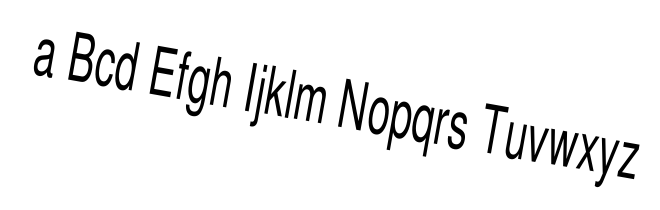
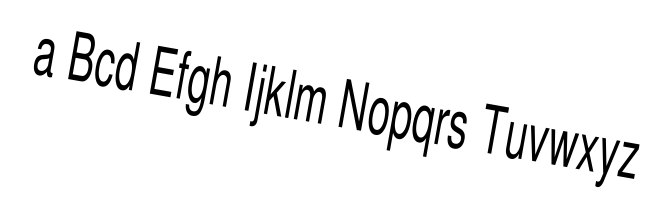
Bug 2063377 - Restore quarter-pixel glyph positioning for rotated and skewed text r=gfx-reviewers,aosmond
Bug 2005426 removed SubpixelDirection::Mixed, so rotated and skewed runs fell
through to None and each glyph rounded its pen to a whole device pixel
independently. Under a transform that changes slightly each frame, the letters
of a word pop a pixel at a time.

Reinstate Mixed: both axes carry a quarter-pixel offset. The 16 variants pack
into one atlas entry selected in the shader, so a glyph costs one texture cache
entry at 16 times the width rather than 16 entries.

The new reftest asserts that two rotated runs a quarter of a pixel apart render
differently, which whole-pixel rounding cannot satisfy. References regenerated.
Three fuzz counts go up slightly: the new sub-pixel positions leave a few more
pixels sitting on an anti-aliasing boundary, each differing by at most one level.

Differential Revision: https://phabricator.services.mozilla.com/D319300

diff --git a/gfx/wr/wr_glyph_rasterizer/src/rasterizer.rs b/gfx/wr/wr_glyph_rasterizer/src/rasterizer.rs
@@ -380,8 +380,9 @@ impl FontTransform {
             // The X axis has been swapped with the Y axis
             SubpixelDirection::Vertical
         } else {
-            // Mixed transforms get no subpixel positioning
-            SubpixelDirection::None
+            // Both axes are projected onto each other (rotation / skew), so no
+            // single axis can carry the sub-pixel offset.
+            SubpixelDirection::Mixed
         }
     }
 }
@@ -1032,6 +1033,11 @@ pub enum SubpixelDirection {
     None = 0,
     Horizontal,
     Vertical,
+    /// A rotated or skewed transform, where neither axis alone can carry the
+    /// sub-pixel offset. Both axes get quarter-pixel positioning, so the run
+    /// snaps to a quarter-pixel grid rather than popping a whole device pixel at
+    /// a time (bug 2063377). Costs 16 raster variants per glyph.
+    Mixed,
 }
 
 impl SubpixelDirection {
@@ -1046,7 +1052,7 @@ impl SubpixelDirection {
 
     pub fn swap_xy(self) -> Self {
         match self {
-            SubpixelDirection::None => self,
+            SubpixelDirection::None | SubpixelDirection::Mixed => self,
             SubpixelDirection::Horizontal => SubpixelDirection::Vertical,
             SubpixelDirection::Vertical => SubpixelDirection::Horizontal,
         }
@@ -1129,6 +1135,7 @@ impl GlyphKey {
             SubpixelDirection::None => (0.0, 0.0),
             SubpixelDirection::Horizontal => (point.x, 0.0),
             SubpixelDirection::Vertical => (0.0, point.y),
+            SubpixelDirection::Mixed => (point.x, point.y),
         };
         let sox = SubpixelOffset::quantize(dx);
         let soy = SubpixelOffset::quantize(dy);
@@ -1721,7 +1728,8 @@ pub type GlyphRasterResult = Result<RasterizedGlyph, GlyphRasterError>;
 pub struct GpuGlyphCacheKey(pub u32);
 
 fn pack_glyph_variants_horizontal(variants: &[RasterizedGlyph]) -> RasterizedGlyph {
-    // Pack 4 glyph variants horizontally into a single texture.
+    // Pack the glyph variants horizontally into a single texture (4 for a single
+    // sub-pixel axis, 16 for a mixed transform's 4x4 grid).
     // Normalize both left and top offsets via padding so all variants can use the same base offsets.
 
     let min_left = variants.iter().map(|v| v.left.floor()).fold(f32::INFINITY, f32::min);
@@ -1737,7 +1745,7 @@ fn pack_glyph_variants_horizontal(variants: &[RasterizedGlyph]) -> RasterizedGly
         .map(|v| v.height + (max_top - v.top.floor()) as i32)
         .max().unwrap();
 
-    let packed_width = slot_width * 4;
+    let packed_width = slot_width * variants.len() as i32;
     let bpp = 4;
 
     let mut packed_bytes = vec![0u8; (packed_width * slot_height * bpp) as usize];
@@ -1803,17 +1811,24 @@ fn process_glyph(
             SubpixelOffset::ThreeQuarters,
         ];
 
-        let mut variants = Vec::with_capacity(4);
-        for offset in &offsets {
-            let variant_key = GlyphKey::new(
-                key.index(),
-                match subpx_dir {
-                    SubpixelDirection::Horizontal => DevicePoint::new(offset.to_f32(), 0.0),
-                    SubpixelDirection::Vertical => DevicePoint::new(0.0, offset.to_f32()),
-                    SubpixelDirection::None => DevicePoint::zero(),
-                },
-                subpx_dir,
-            );
+        // A mixed transform varies on both axes, so it needs the full 4x4 grid
+        // of offsets. The shader indexes it as `offset_y * 4 + offset_x`.
+        let points: Vec<DevicePoint> = match subpx_dir {
+            SubpixelDirection::Horizontal =>
+                offsets.iter().map(|o| DevicePoint::new(o.to_f32(), 0.0)).collect(),
+            SubpixelDirection::Vertical =>
+                offsets.iter().map(|o| DevicePoint::new(0.0, o.to_f32())).collect(),
+            SubpixelDirection::Mixed => offsets.iter()
+                .flat_map(|oy| offsets.iter().map(move |ox| {
+                    DevicePoint::new(ox.to_f32(), oy.to_f32())
+                }))
+                .collect(),
+            SubpixelDirection::None => vec![DevicePoint::zero()],
+        };
+
+        let mut variants = Vec::with_capacity(points.len());
+        for point in points {
+            let variant_key = GlyphKey::new(key.index(), point, subpx_dir);
 
             match context.rasterize_glyph(&font, &variant_key) {
                 Ok(glyph) => variants.push(glyph),

diff --git a/gfx/wr/webrender/src/prim_store/text_run.rs b/gfx/wr/webrender/src/prim_store/text_run.rs
@@ -503,10 +503,15 @@ impl TextRunTemplate {
         let local_raster = raster_space != RasterSpace::Screen
             || used_font.flags.contains(FontInstanceFlags::TEXTURE_PADDING);
 
+        // Only the local-raster branch below snaps on the CPU; device mode hands
+        // the exact pen to the shader, which applies the matching bias itself.
+        // `Mixed` never reaches local-raster mode (that path rasterizes with an
+        // identity `FontTransform`, so its subpx dir is always `Horizontal`).
         let snap_bias = match subpx_dir {
             SubpixelDirection::None => DeviceVector2D::new(0.5, 0.5),
             SubpixelDirection::Horizontal => DeviceVector2D::new(0.125, 0.5),
             SubpixelDirection::Vertical => DeviceVector2D::new(0.5, 0.125),
+            SubpixelDirection::Mixed => DeviceVector2D::new(0.125, 0.125),
         };
 
         // World-space run anchor (device mode only).

diff --git a/gfx/wr/webrender/src/batch.rs b/gfx/wr/webrender/src/batch.rs
@@ -1095,6 +1095,7 @@ impl BatchBuilder {
                                     SubpixelDirection::None => DeviceVector2D::new(0.5, 0.5),
                                     SubpixelDirection::Horizontal => DeviceVector2D::new(0.125, 0.5),
                                     SubpixelDirection::Vertical => DeviceVector2D::new(0.5, 0.125),
+                                    SubpixelDirection::Mixed => DeviceVector2D::new(0.125, 0.125),
                                 }
                             };
                             let text_offset = LayoutVector2D::zero();

diff --git a/gfx/wr/webrender/src/prim_store/mod.rs b/gfx/wr/webrender/src/prim_store/mod.rs
@@ -438,7 +438,8 @@ impl PrimitiveInstance {
                         SnapRounding::RoundOutNonSubpx { subpx_horizontal: true },
                     SubpixelDirection::Vertical =>
                         SnapRounding::RoundOutNonSubpx { subpx_horizontal: false },
-                    SubpixelDirection::None => SnapRounding::RoundOut,
+                    SubpixelDirection::None |
+                    SubpixelDirection::Mixed => SnapRounding::RoundOut,
                 })
             } else {
                 ClipSnap::Exact
